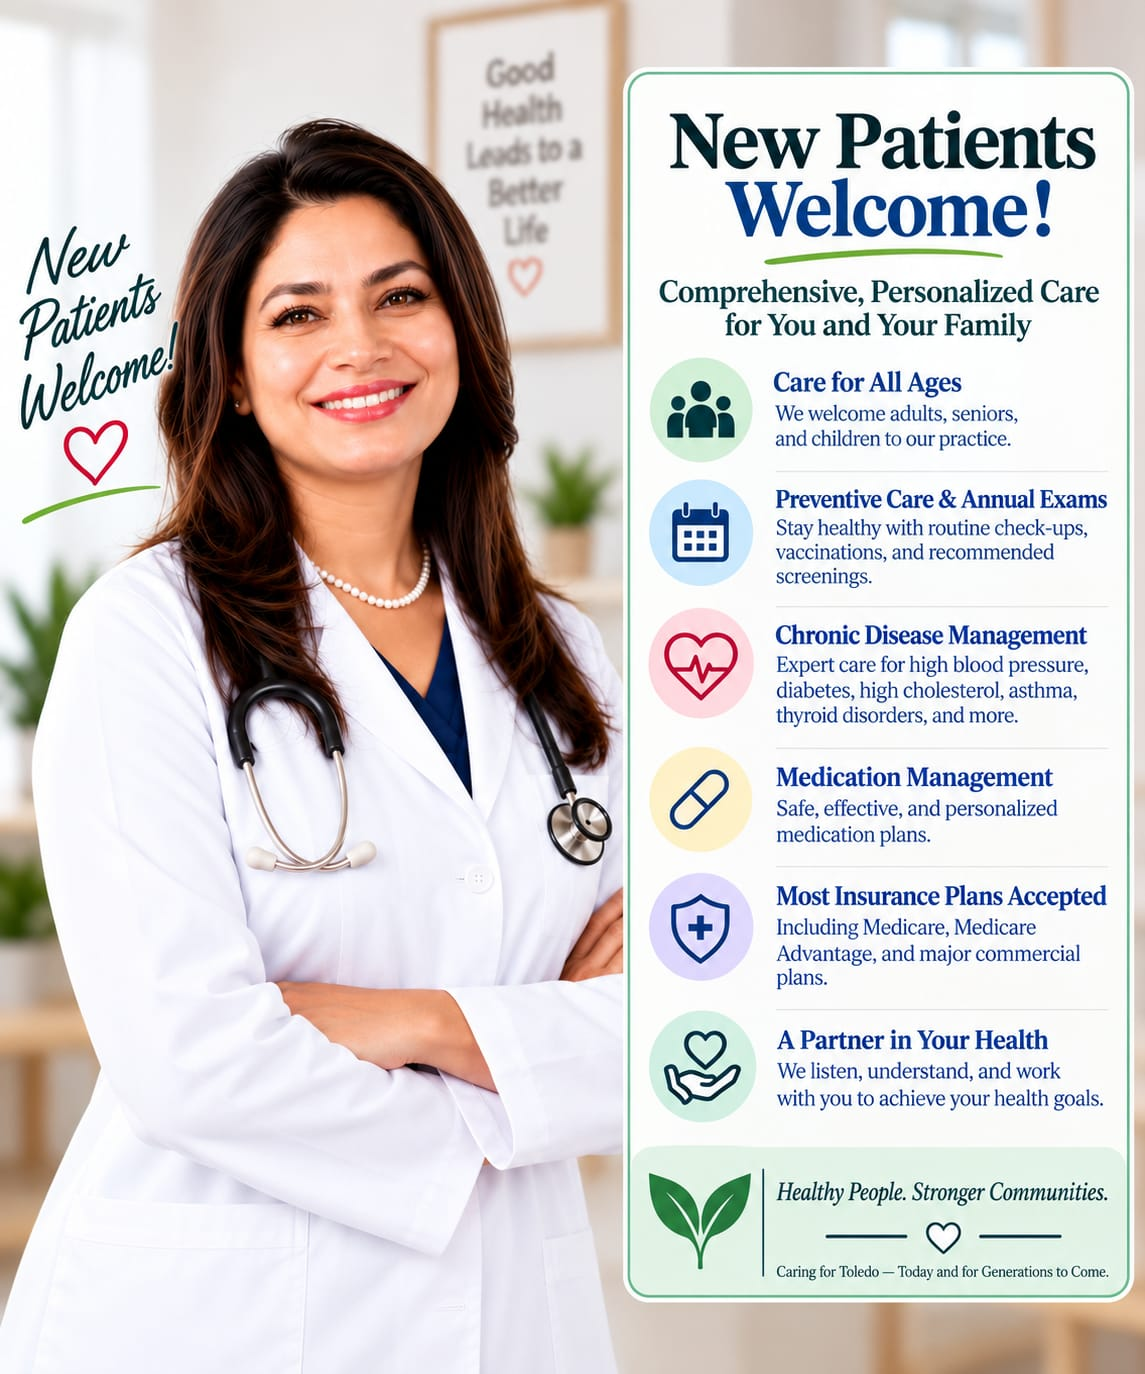
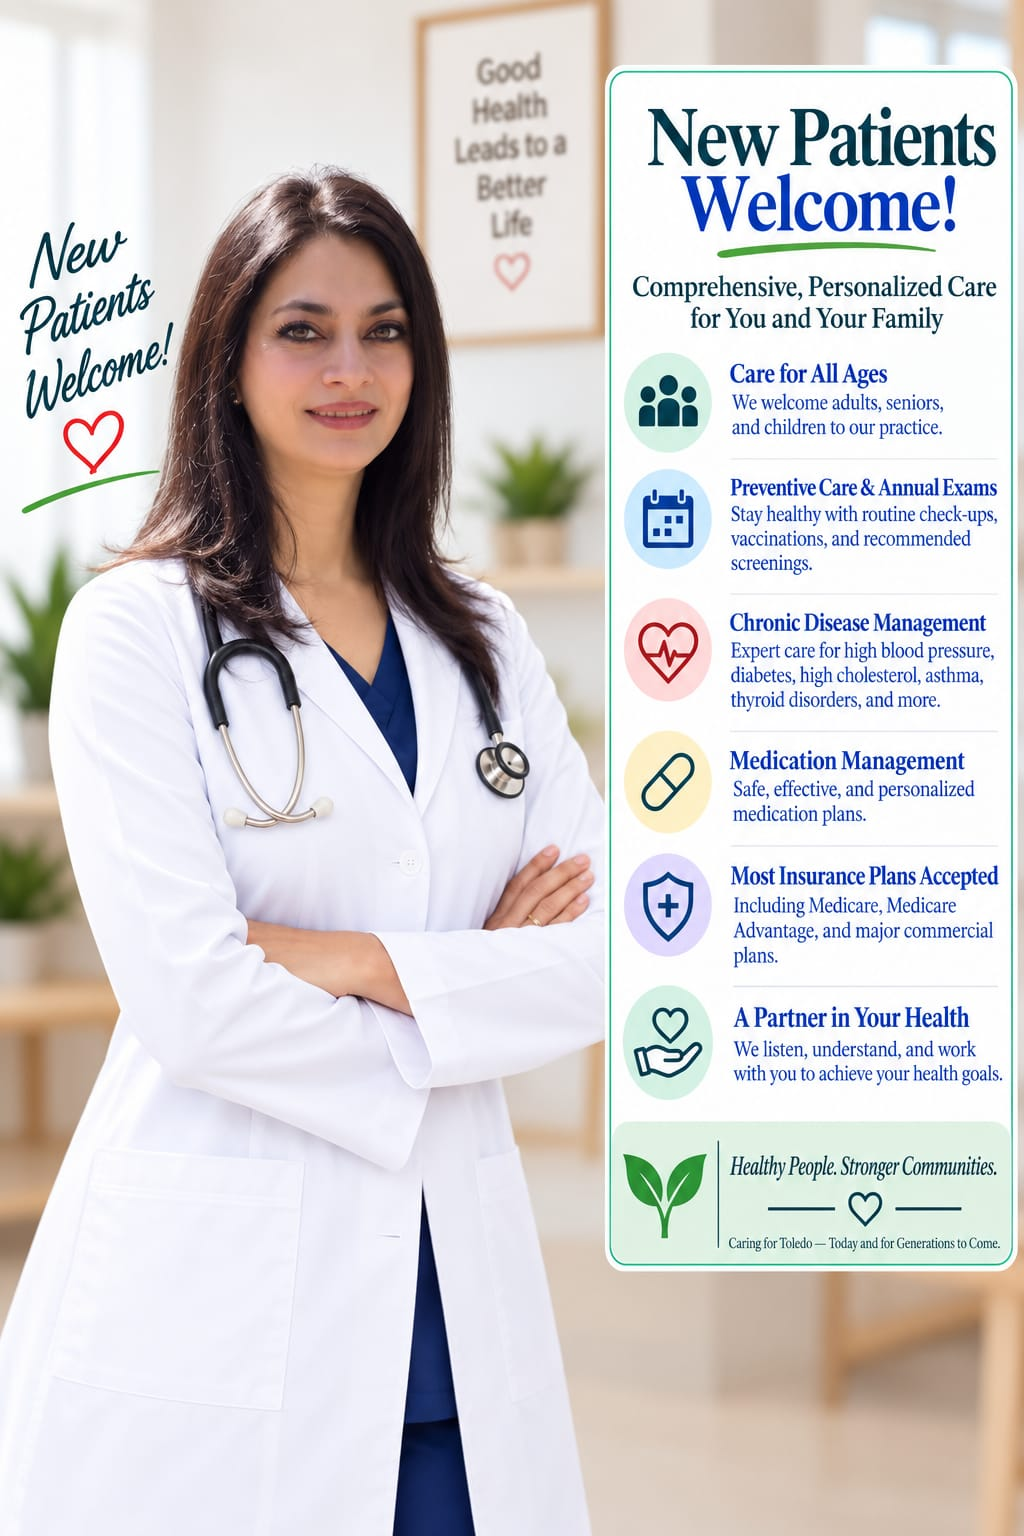
Fix the trust band text layer, and qualify the GLP-1 medication claim
The four trust markers under the hero split onto two lines as separate block
spans with nothing between them. On screen that looked right, but the text
layer ran the halves together — "Compassionate,patient-focused care",
"20+ years ofexperience", and the other two — which is what a screen reader
announces and a crawler indexes. All four now keep their space.

The GLP-1 card said "FDA-approved medications like Semaglutide (Ozempic®,
Wegovy®) to help reduce appetite and support weight loss". Wegovy is approved
for weight management; Ozempic is not, so the sentence read as an approval
claim for an off-label use. It now names each medication with its brands and
states that approved indications vary by medication, without asserting one for
any of them.

The conditions heading becomes "Annual Physicals & Preventive Care".

Refreshes the new patients hero image, whose shape changed from 1145x1374 to
1024x1536; its declared dimensions are corrected and all thirteen hero images
were re-audited against the files on disk.

Lint, typecheck and build clean. 136 renders across eight viewports: no
overflow, one H1 per page, no page errors.

diff --git a/lib/landing.ts b/lib/landing.ts
@@ -551,8 +551,8 @@ export const landingPages: LandingPageData[] = [
     image: {
       src: "/images/doctor/new-patients.jpg",
       alt: "Dr. Saudia Mushkbar, MD in her Toledo office beside a panel headed “New Patients Welcome”, listing care for all ages, preventive care and annual exams, chronic disease management, medication management, most insurance plans accepted, and a partner in your health",
-      width: 1145,
-      height: 1374,
+      width: 1024,
+      height: 1536,
     },
     grid: {
       title: "Comprehensive Care for Every Member of Your Family",
@@ -640,7 +640,7 @@ export const landingPages: LandingPageData[] = [
         {
           title: "GLP-1 Therapy",
           description:
-            "FDA-approved medications like Semaglutide (Ozempic®, Wegovy®) to help reduce appetite and support weight loss.",
+            "Prescription weight-management options may include GLP-1–based medications such as semaglutide (Wegovy® and Ozempic®), tirzepatide (Zepbound® and Mounjaro®), and liraglutide (Saxenda®), when clinically appropriate. FDA-approved indications vary by medication.",
           icon: "Pill",
         },
         {

diff --git a/components/sections/TrustStats.tsx b/components/sections/TrustStats.tsx
@@ -38,6 +38,7 @@ export function TrustStats() {
         <ul className="grid gap-x-6 gap-y-10 sm:grid-cols-2 lg:grid-cols-4">
           {trustPoints.map((point, index) => {
             const IconComponent = icons[index] ?? ShieldCheck;
+            const [lineOne, lineTwo] = twoLines(point);
             return (
               <li
                 key={point}
@@ -53,11 +54,8 @@ export function TrustStats() {
                   aria-hidden="true"
                 />
                 <p className="font-display text-lg uppercase leading-snug tracking-[0.04em] text-white">
-                  {twoLines(point).map((line) => (
-                    <span key={line} className="block">
-                      {line}
-                    </span>
-                  ))}
+                  <span className="block">{lineOne}</span>{" "}
+                  <span className="block">{lineTwo}</span>
                 </p>
               </li>
             );

diff --git a/lib/content.ts b/lib/content.ts
@@ -105,7 +105,7 @@ export const conditions = [
       "Routine checks for cholesterol, blood sugar, cancer screenings, and other preventive tests to catch health issues early.",
   },
   {
-    title: "Annual Physicals & Wellness Exams",
+    title: "Annual Physicals & Preventive Care",
     icon: "ClipboardCheck",
     description:
       "Comprehensive yearly checkups for adults and children to monitor health, and update vaccinations.",
